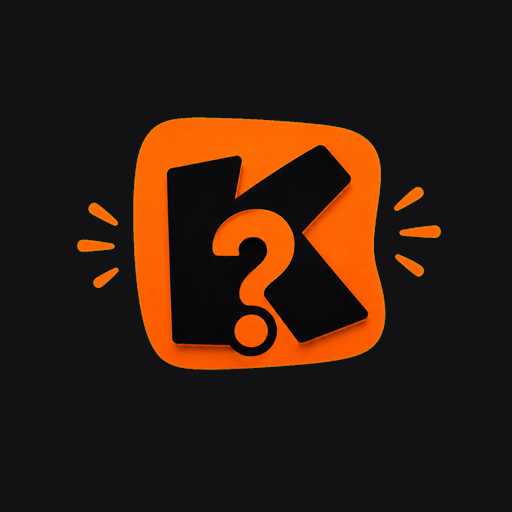
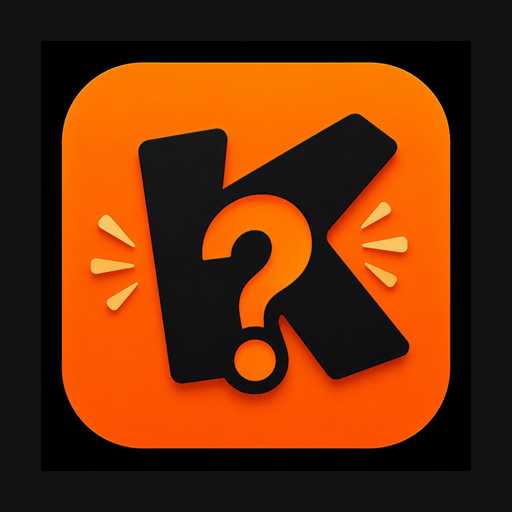
Respekter kategorifravalg og opdater appikon

diff --git a/src/lib/engine.test.ts b/src/lib/engine.test.ts
@@ -308,6 +308,22 @@ describe("adaptiv udvælgelse", () => {
       ),
     ).toBe(true);
   });
+  it("lader ikke formkategorier åbne fravalgte emner i blandede spil", () => {
+    for (const formatCategoryId of ["cat-45", "cat-46", "cat-47"]) {
+      const selectedCategoryIds = ["cat-21", formatCategoryId];
+      const chosen = selectQuestions(SEED_QUESTIONS, {
+        ...setup,
+        questionCount: 15,
+        categoryIds: selectedCategoryIds,
+      });
+      expect(chosen).toHaveLength(15);
+      expect(
+        chosen.every((question) =>
+          selectedCategoryIds.includes(question.categoryId),
+        ),
+      ).toBe(true);
+    }
+  });
   it("lader ikke store kategorier dominere et blandet spil", () => {
     const chosen = selectQuestions(SEED_QUESTIONS, {
       ...setup,

diff --git a/src/lib/engine.ts b/src/lib/engine.ts
@@ -262,9 +262,11 @@ function matchesSelectedUmbrellaCategory(
   question: Question,
   selectedCategoryIds: Set<string>,
 ) {
+  // Emnefiltre skal være strikte i blandede spil. Formkategorierne må kun
+  // hente spørgsmål fra andre emner, når brugeren har valgt dem helt alene.
+  if (selectedCategoryIds.size !== 1) return false;
   return (
-    (selectedCategoryIds.size === 1 &&
-      selectedCategoryIds.has("cat-1") &&
+    (selectedCategoryIds.has("cat-1") &&
       isGeneralKnowledgeQuestion(question)) ||
     (selectedCategoryIds.has("cat-45") &&
       ["what_came_first", "ordering"].includes(question.type)) ||

diff --git a/src/app/globals.css b/src/app/globals.css
@@ -133,8 +133,8 @@
   gap: 0.5rem;
 }
 .brand-lockup-compact .brand-mark {
-  width: 2.65rem;
-  height: 2.65rem;
+  width: 3rem;
+  height: 3rem;
 }
 .brand-lockup-compact .brand-copy strong {
   font-size: 1.15rem;

diff --git a/public/sw.js b/public/sw.js
@@ -1,4 +1,4 @@
-const CACHE = "kvizy-v6";
+const CACHE = "kvizy-v7";
 const CORE = [
   "/",
   "/manifest.webmanifest",
